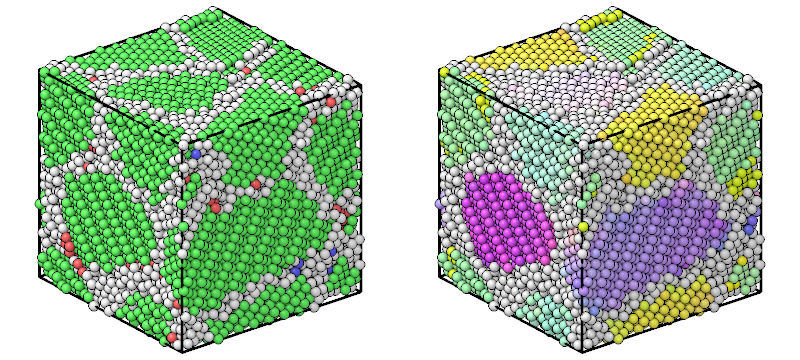
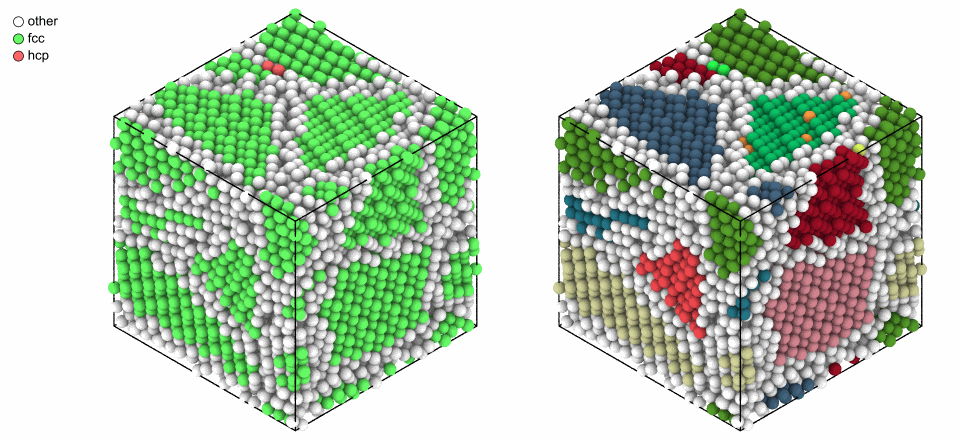
Polyhedral template matching: every structure it knows, the RMSD and its cutoff, orientations, and every chemical ordering, each with its picture and legend

diff --git a/docs/user-guide/analysis/ptm.md b/docs/user-guide/analysis/ptm.md
@@ -28,11 +28,256 @@ result.ordering_names[result.ordering[0]]  # "L12_A": a Cu site
 alloy = alloy.with_columns(result)  # structure, rmsd, orientation and more
 ```
 
+## The structures
+
+PTM knows nine types: `other` and eight structures. The structures to look for
+are chosen with `structures`; by default fcc, hcp and bcc, as in OVITO. Each is
+matched by the polyhedron of the nearest neighbors of an atom:
+
+| Structure | Neighbors matched | For example |
+|---|---|---|
+| `fcc` | 12 | Cu, Al, Ni, and the A1, L1<sub>0</sub> and L1<sub>2</sub> alloys |
+| `hcp` | 12 | Mg, Ti, Zn, and the stacking faults and twins of fcc |
+| `bcc` | 14, 8 first and 6 second | Fe, W, Mo, and B2 alloys |
+| `ico` | 12 | the centers of icosahedra, in metallic glasses and clusters |
+| `sc` | 6 | α-Po, and rocksalt, whose two elements the structure does not tell apart |
+| `cubic_diamond` | 4 first and 12 second | Si, Ge, diamond, and zincblende |
+| `hexagonal_diamond` | 4 first and 12 second | lonsdaleite, and wurtzite |
+| `graphene` | 3 first and 6 second | graphene, and hexagonal boron nitride |
+
+Each crystal, and a Mackay icosahedron of 309 atoms cut in half, with all eight
+structures looked for:
+
+```python
+import itertools
+import mdapy as mp
+from mdapy.visualization import render, write_png
+
+
+def mackay(shells, d):
+    """A Mackay icosahedron: on each shell, triangular lattices on 20 faces."""
+    g = (1 + 5**0.5) / 2
+    corners = [(0, s, t * g) for s, t in itertools.product((-1, 1), repeat=2)]
+    corners = np.array([np.roll(c, k) for c in corners for k in range(3)]) * d / 2
+    faces = [
+        f
+        for f in itertools.combinations(range(12), 3)
+        if all(
+            np.isclose(np.linalg.norm(corners[i] - corners[j]), d)
+            for i, j in itertools.combinations(f, 2)
+        )
+    ]
+    points = [np.zeros(3)]
+    for n in range(1, shells + 1):
+        for a, b, c in faces:
+            for i in range(n + 1):
+                for j in range(n + 1 - i):
+                    points.append(
+                        i * corners[a] + j * corners[b] + (n - i - j) * corners[c]
+                    )
+    points = np.unique(np.round(points, 6), axis=0)
+    return mp.System(points + 30.0, mp.Box(60.0, pbc=False), elements="Cu")
+
+
+everything = PolyhedralTemplateMatching(PolyhedralTemplateMatching.NAMES[1:])
+crystals = [
+    build_crystal("fcc", 3.615, elements="Cu", repeat=(3, 3, 3)),
+    build_crystal("hcp", 3.21, c=5.21, elements="Mg", repeat=(4, 4, 3)),
+    build_crystal("bcc", 2.865, elements="Fe", repeat=(4, 4, 4)),
+    build_crystal("sc", 3.35, elements="Po", repeat=(4, 4, 4)),
+    build_crystal("diamond", 5.431, elements="Si", repeat=(2, 2, 2)),
+    build_crystal("lonsdaleite", 2.52, c=4.12, elements="C", repeat=(4, 4, 3)),
+    build_crystal("graphene", 2.46, c=10.0, elements="C", repeat=(5, 5, 1)),
+]
+pictures = []
+for crystal in crystals:
+    found = everything.compute(crystal)
+    pictures.append(render(crystal, color=found, legend=True, width=520, height=440))
+icosahedron = mackay(4, 2.55)
+found = everything.compute(icosahedron)
+found.counts()  # 1 ico at the center, 90 hcp, 20 fcc, 198 other
+pictures.append(
+    render(
+        icosahedron,
+        atoms=icosahedron["positions.z"] < 30.5,
+        color=found,
+        view="top",
+        box=False,
+        legend=True,
+        width=520,
+        height=440,
+    )
+)
+write_png(
+    "images/ptm-structures.png",
+    np.vstack([np.hstack(pictures[:4]), np.hstack(pictures[4:])]),
+)
+```
+
+![The structures of polyhedral template matching](images/ptm-structures.png)
+
+*Top: fcc copper, hcp magnesium, bcc iron and simple cubic polonium. Bottom: cubic
+diamond silicon, hexagonal diamond (lonsdaleite), graphene, and half of a Mackay
+icosahedron: its center is icosahedral, the planes between its twenty tetrahedra hcp,
+the insides of the tetrahedra fcc, and the surface other.*
+
+Look only for the structures the system can have: each structure added is one
+more template that an atom of another structure, or of a defect, may match by
+accident. Atoms of a liquid, of a surface or of a grain boundary are `other`.
+
+## The RMSD and its cutoff
+
+Thermal motion moves the neighbors away from the template; the RMSD measures how
+far, after the template is scaled and rotated onto them. An atom whose best RMSD
+is above `rmsd_cutoff` is `other`. With no cutoff, the RMSD of every atom shows
+where the crystal ends and the disorder begins:
+
+```python
+from mdapy.visualization import plot
+
+crystal = build_crystal("fcc", 3.615, elements="Cu", repeat=(8, 8, 8))
+rng = np.random.default_rng(3)
+no_cutoff = PolyhedralTemplateMatching(rmsd_cutoff=0)
+with plot.style():
+    fig, ax = plot.figure("single")
+    for shake in (0.05, 0.1, 0.2, 0.4):
+        moved = crystal["positions"] + rng.normal(0, shake, (len(crystal), 3))
+        rmsd = no_cutoff.compute(crystal.with_columns(positions=moved)).rmsd
+        ax.hist(rmsd, bins=np.linspace(0, 0.4, 81), histtype="step", label=f"{shake} Å")
+    ax.axvline(0.1, color="0.5", ls="--")
+    ax.set_xlabel("RMSD")
+    ax.set_ylabel("Atoms")
+    ax.legend(title="shaken by")
+    plot.save(fig, "images/ptm-rmsd", formats=("png",))
+```
+
+![The RMSD of shaken copper](images/ptm-rmsd.png)
+
+*Copper with every atom shaken by a normal distribution of 0.05 to 0.4 Å along each
+axis. The default cutoff of 0.1 (dashed) keeps a crystal shaken by 0.05 Å, about room
+temperature, and a good part of one shaken by 0.1 Å, near melting; a
+crystal shaken by 0.4 Å is no longer one. Raise the cutoff for hot crystals, or use
+0 to classify every atom by its best template.*
+
+## Orientations
+
+`orientation` is the rotation of the lattice of each atom from its standard
+orientation, the cubic axes along x, y and z for the cubic structures, as a
+quaternion (x, y, z, w) reduced by the symmetry of the lattice. Atoms of one grain
+have nearly the same; [grain segmentation](grain-segmentation.md) groups them.
+Here the x, y and z of the quaternion color each atom:
+
+```python
+from mdapy.build import build_polycrystal
+
+grains = build_polycrystal(
+    build_crystal("fcc", 3.615, elements="Cu"), mp.Box(50.0), 8, seed=3
+)
+grains = grains.with_columns(
+    positions=grains["positions"] + rng.normal(0, 0.05, (len(grains), 3))
+)
+found = PolyhedralTemplateMatching().compute(grains)
+rotation = np.clip(0.5 + 1.25 * found.orientation[:, :3], 0, 1)
+rotation[found.structure == 0] = 0.95  # other
+write_png(
+    "images/ptm.png",
+    np.hstack(
+        [
+            render(grains, color=found, legend=True, width=520, height=440),
+            render(grains, color=rotation, width=440, height=440),
+        ]
+    ),
+)
+```
+
 ![Structures and orientations](images/ptm.png)
 
-*A copper polycrystal: the structure of each atom (fcc green, hcp red,
-other white), and the orientation of the grains, colored by the
-rotation of each atom.*
+*A copper polycrystal of eight grains. Left: the structure of each atom, fcc inside the
+grains, other at the boundaries, and some hcp where two grains share a plane of
+atoms. Right: the orientation of each atom, one color for each grain.*
+
+`interatomic_distance` gives the distance between nearest neighbors of the matched
+lattice of each atom, and, with `deformation_gradient=True`, the elastic
+deformation gradient maps the template, scaled to that distance, onto the
+neighbors: from it the [elastic strain](elastic-strain.md) of each atom follows.
+
+## Chemical ordering
+
+With `ordering=True` and an `element` column, PTM also compares the elements of the
+neighbors with the sublattices of the ordered crystals of each structure:
+
+| Ordering | Structure | Its atoms |
+|---|---|---|
+| `pure` | any | all neighbors of the element of the atom |
+| `L10` | `fcc` | layers of two elements alternating along a cube axis, as CuAu |
+| `L12_A` | `fcc` | the face centers of L1<sub>2</sub>, as Cu in Cu<sub>3</sub>Au |
+| `L12_B` | `fcc` | the corners of L1<sub>2</sub>, as Au in Cu<sub>3</sub>Au |
+| `B2` | `bcc` | the eight first neighbors of the other element, as CuZn |
+| `zincblende_wurtzite` | `cubic_diamond`, `hexagonal_diamond` | the four first neighbors of the other element, as GaAs and ZnO |
+| `boron_nitride` | `graphene` | the three first neighbors of the other element, as hexagonal BN |
+| `other` | any | none of these, such as a random alloy |
+
+```python
+ordered = PolyhedralTemplateMatching(
+    PolyhedralTemplateMatching.NAMES[1:], ordering=True
+)
+alloys = [
+    build_crystal("fcc", 3.615, elements="Cu", repeat=(3, 3, 3)),
+    build_crystal("fcc", 3.8, elements=("Cu", "Au"), repeat=(3, 3, 3)),
+    build_crystal("l1_2", 3.75, elements=("Cu", "Au"), repeat=(3, 3, 3)),
+    build_crystal("cscl", 2.95, elements=("Cu", "Zn"), repeat=(4, 4, 4)),
+    build_crystal("zincblende", 5.65, elements=("Ga", "As"), repeat=(2, 2, 2)),
+    build_crystal("wurtzite", 3.25, c=5.21, elements=("Zn", "O"), repeat=(4, 4, 3)),
+    build_crystal("graphene", 2.50, c=10.0, elements=("B", "N"), repeat=(5, 5, 1)),
+]
+side = [1.0, 0.5, 0.35]  # off the rows of atoms along [111]
+pictures = []
+for crystal in alloys:
+    found = ordered.compute(crystal)
+    title = ", ".join(found.ordering_names[k] for k in np.unique(found.ordering))
+    pictures.append(
+        render(crystal, radius=0.8, view=side, legend=title, width=520, height=440)
+    )
+
+# Cu3Au with 4 pairs of Cu and Au swapped: the atoms around them are other
+mixed = build_crystal("l1_2", 3.75, elements=("Cu", "Au"), repeat=(4, 4, 4))
+element = np.asarray(mixed["element"]).copy()
+copper = rng.choice(np.flatnonzero(element == "Cu"), 4, replace=False)
+gold = rng.choice(np.flatnonzero(element == "Au"), 4, replace=False)
+element[copper], element[gold] = "Au", "Cu"
+found = ordered.compute(mixed.with_columns(element=element))
+colors = np.array(PolyhedralTemplateMatching.ORDERING_COLORS)
+names = {found.ordering_names[k]: colors[k] for k in np.unique(found.ordering)}
+pictures.append(
+    render(
+        mixed,
+        color=colors[found.ordering],
+        radius=0.8,
+        view=side,
+        legend=names,
+        width=520,
+        height=440,
+    )
+)
+write_png(
+    "images/ptm-ordering.png",
+    np.vstack([np.hstack(pictures[:4]), np.hstack(pictures[4:])]),
+)
+```
+
+![Chemical ordering](images/ptm-ordering.png)
+
+*The ordered crystals in the colors of their elements, each titled with the orderings
+found. Top: pure copper, L1<sub>0</sub> CuAu, L1<sub>2</sub> Cu<sub>3</sub>Au with its
+two sublattices, and B2 CuZn. Bottom: zincblende GaAs, wurtzite ZnO, hexagonal boron
+nitride, and Cu<sub>3</sub>Au with 4 of its 64 Au atoms swapped with Cu atoms, in
+the colors of the orderings: the atoms whose neighbors no longer match a sublattice are
+other.*
+
+The ordering of an atom is that of the best template of its structure; an atom of
+`other` structure gets the ordering `other`. In a random solid solution most atoms
+are `other` too, and the share of an ordering is a measure of chemical order next to
+the [Warren–Cowley parameters](warren-cowley.md).
 
 ## Parameters
 
